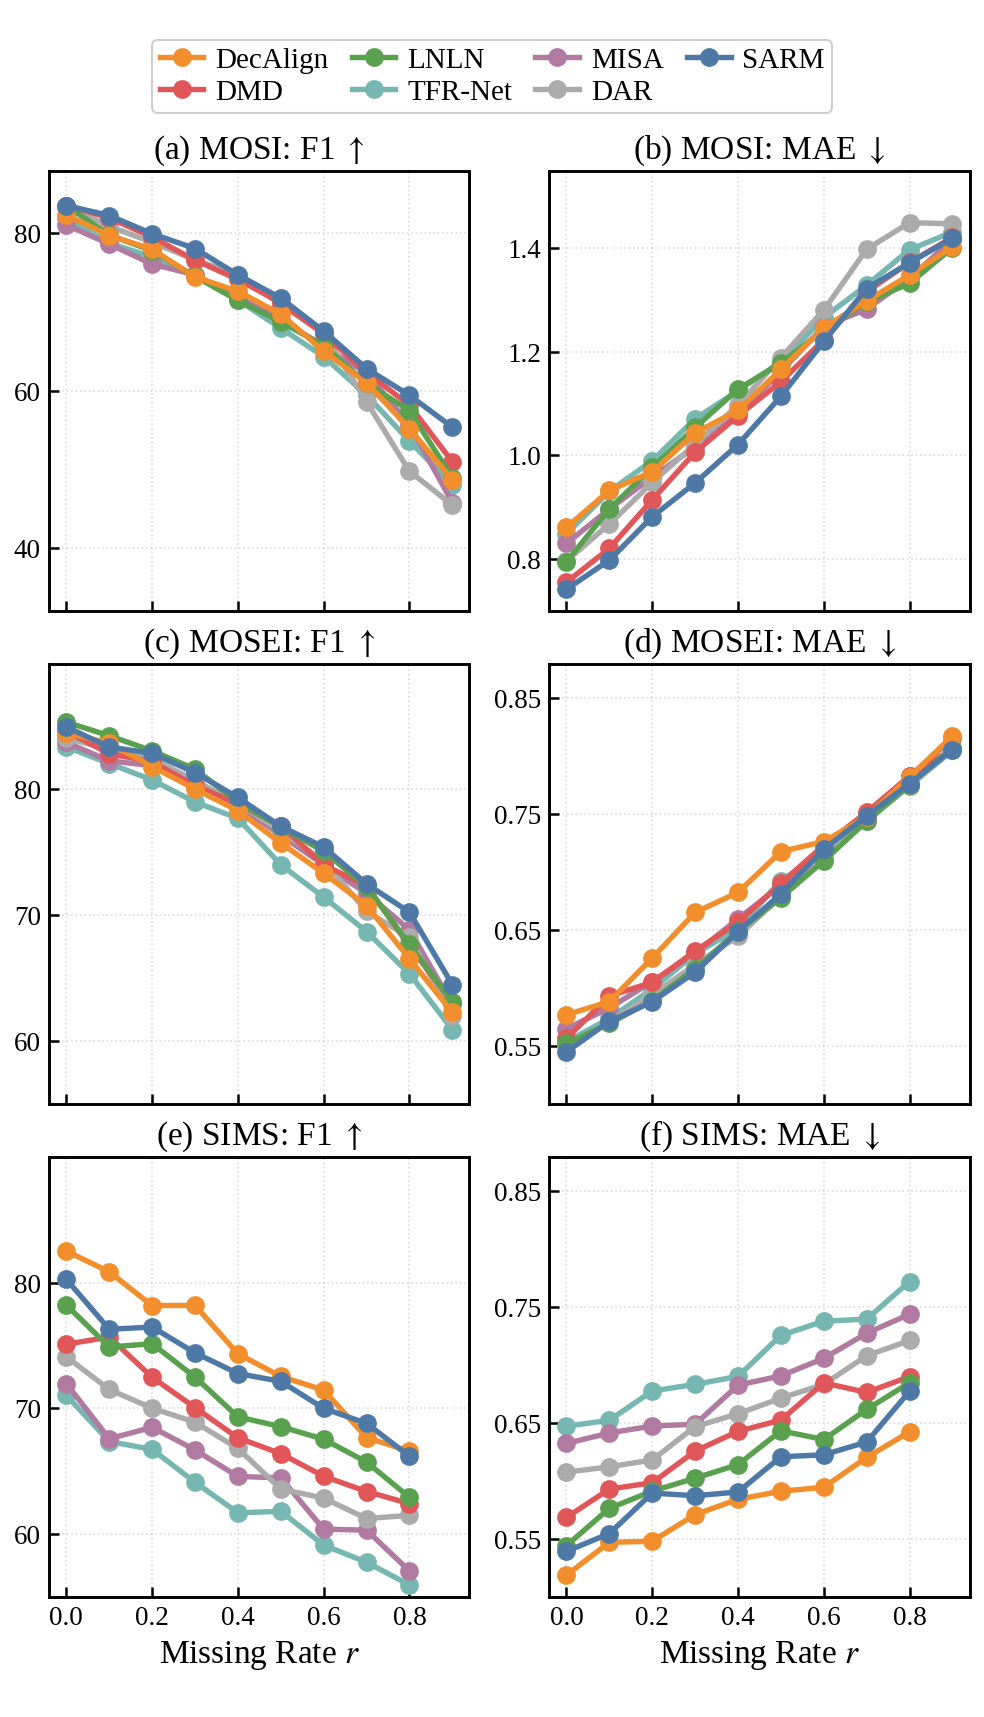
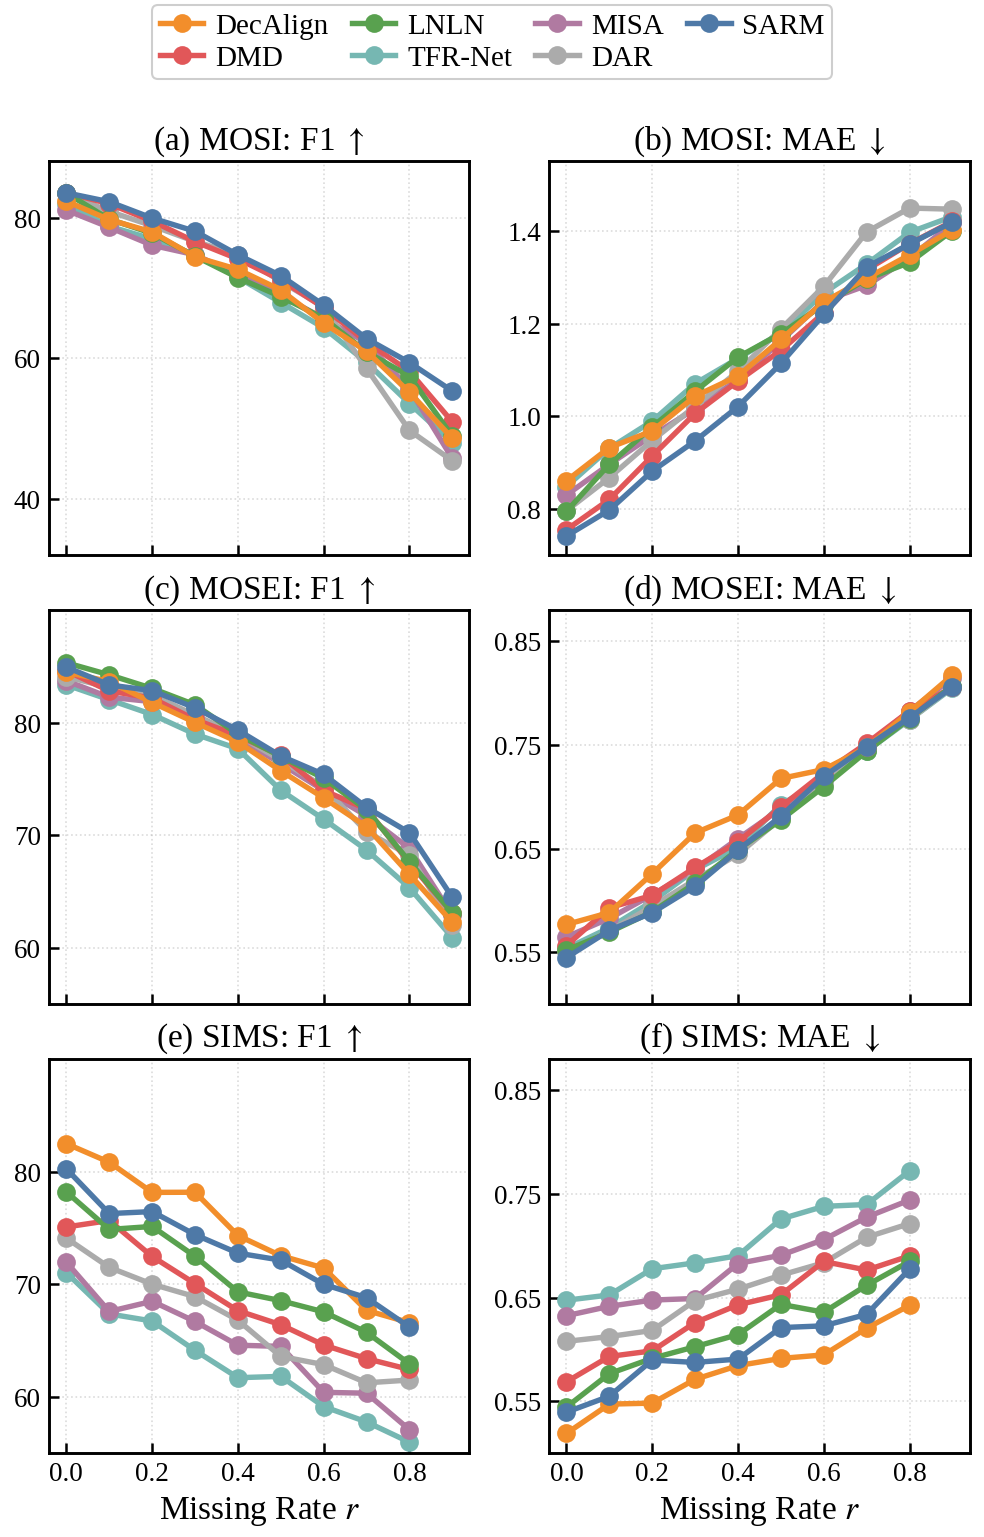
update plot across mising rate performance

diff --git a/result/normal/generate_summary_and_plots.py b/result/normal/generate_summary_and_plots.py
@@ -91,9 +91,19 @@ sims_agg, sims_models = aggregate_data(sims_df)
 # FIG_H = COL_W * 0.7 * 3 + 0.5         # 3 rows of panels (compact)
 
 COL_W = (6.875 - 0.3125) / 2
-LEG_H = 0.45                                  # chiều cao dành cho legend (inch)
-ROW_H = COL_W * 0.48                          # chiều cao mỗi hàng panel (inch)
-FIG_H = ROW_H * 3 + LEG_H + 0.55              # + phần title/xlabel/khoảng cách
+# --- các lề tính bằng inch ---
+EDGE   = 0.02    # khe giữa legend và mép trên figure
+LEG_H  = 0.34    # chiều cao legend (2 hàng, font 7pt)
+GAP    = 0.03    # khe giữa legend và title hàng 1
+TITLE  = 0.15    # chiều cao title (8pt + pad)
+BOT    = 0.28    # tick label + xlabel hàng dưới cùng
+
+HSPACE = 0.14    # khoảng cách giữa các hàng (tỉ lệ theo chiều cao axes)
+WSPACE = 0.19
+AX_H   = COL_W * 0.40   # chiều cao thật của MỖI panel (inch)
+
+TOP_IN = EDGE + LEG_H + GAP + TITLE
+FIG_H  = TOP_IN + BOT + AX_H * (3 + 2 * HSPACE)
 
 # Font sizes from paper_style.py "narrow" preset
 plt.rcParams.update({
@@ -179,18 +189,17 @@ axes[2, 1].set_title(r'(f) SIMS: MAE $\downarrow$')
 for ax in axes[2]:
     ax.set_xlabel(r'Missing Rate $r$')
 
-top_margin_in = LEG_H + 0.12                  # legend + title hàng đầu (title nằm trong 0.12 in)
-top = 1 - top_margin_in / FIG_H
-bottom = 0.40 / FIG_H                          # chừa chỗ cho xlabel
+top    = 1 - TOP_IN / FIG_H
+bottom = BOT / FIG_H
 
 fig.subplots_adjust(left=0.05, right=0.985, top=top, bottom=bottom,
-                    wspace=0.19, hspace=0.12)
+                    wspace=WSPACE, hspace=HSPACE)
 
-# --- shared legend ---
 handles, leg_labels = axes[0, 0].get_legend_handles_labels()
 leg = fig.legend(
-    handles, leg_labels, loc='lower center', ncol=4,
-    bbox_to_anchor=(0.5, top + 0.025),        # ngay phía trên title hàng 1
+    handles, leg_labels, loc='upper center', ncol=4,
+    bbox_to_anchor=(0.5, 1 - EDGE / FIG_H),
+    borderaxespad=0,
     frameon=True, framealpha=0.95,
     edgecolor='#CCCCCC', borderpad=0.25, labelspacing=0.2,
     handlelength=1.5, handletextpad=0.4, columnspacing=0.8,
